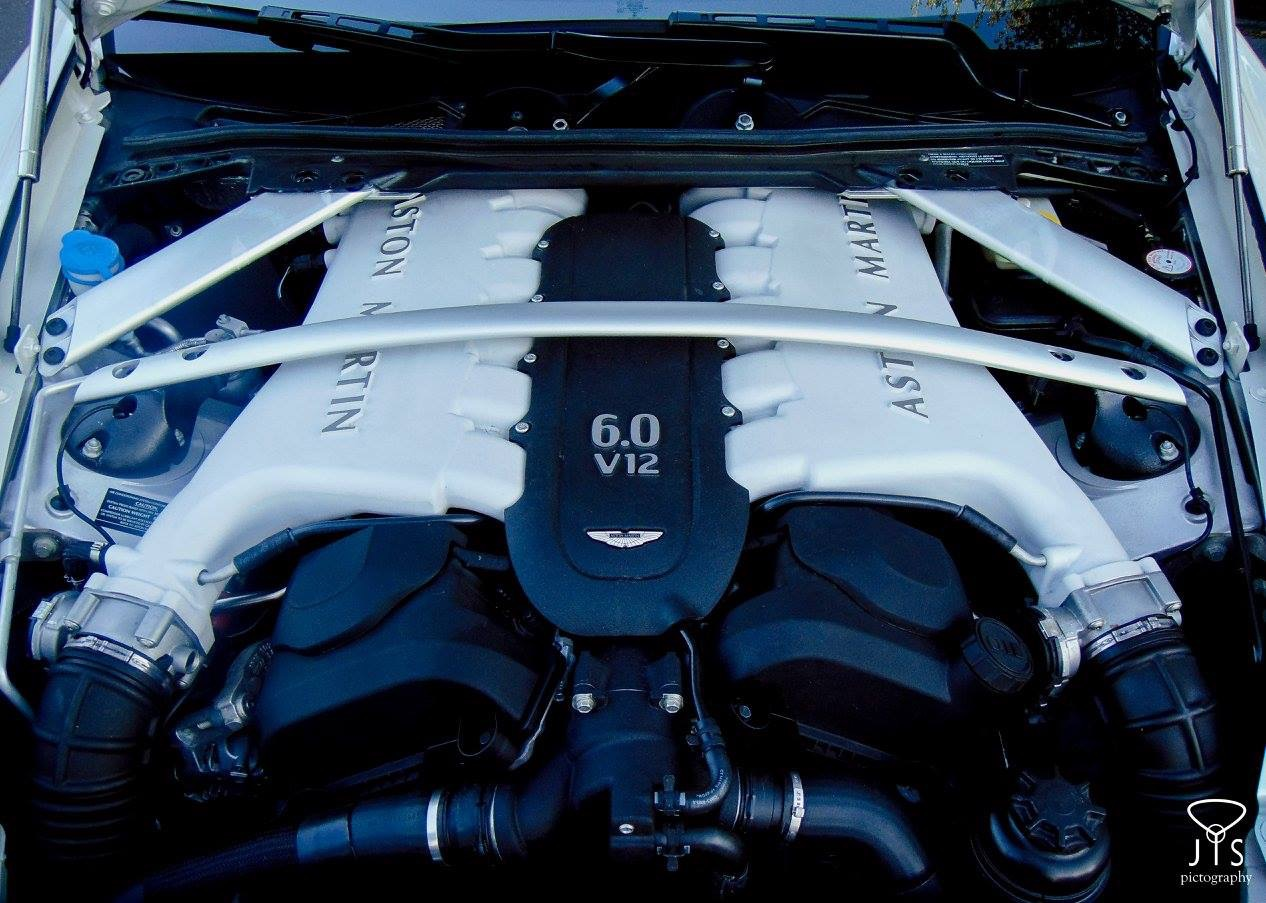
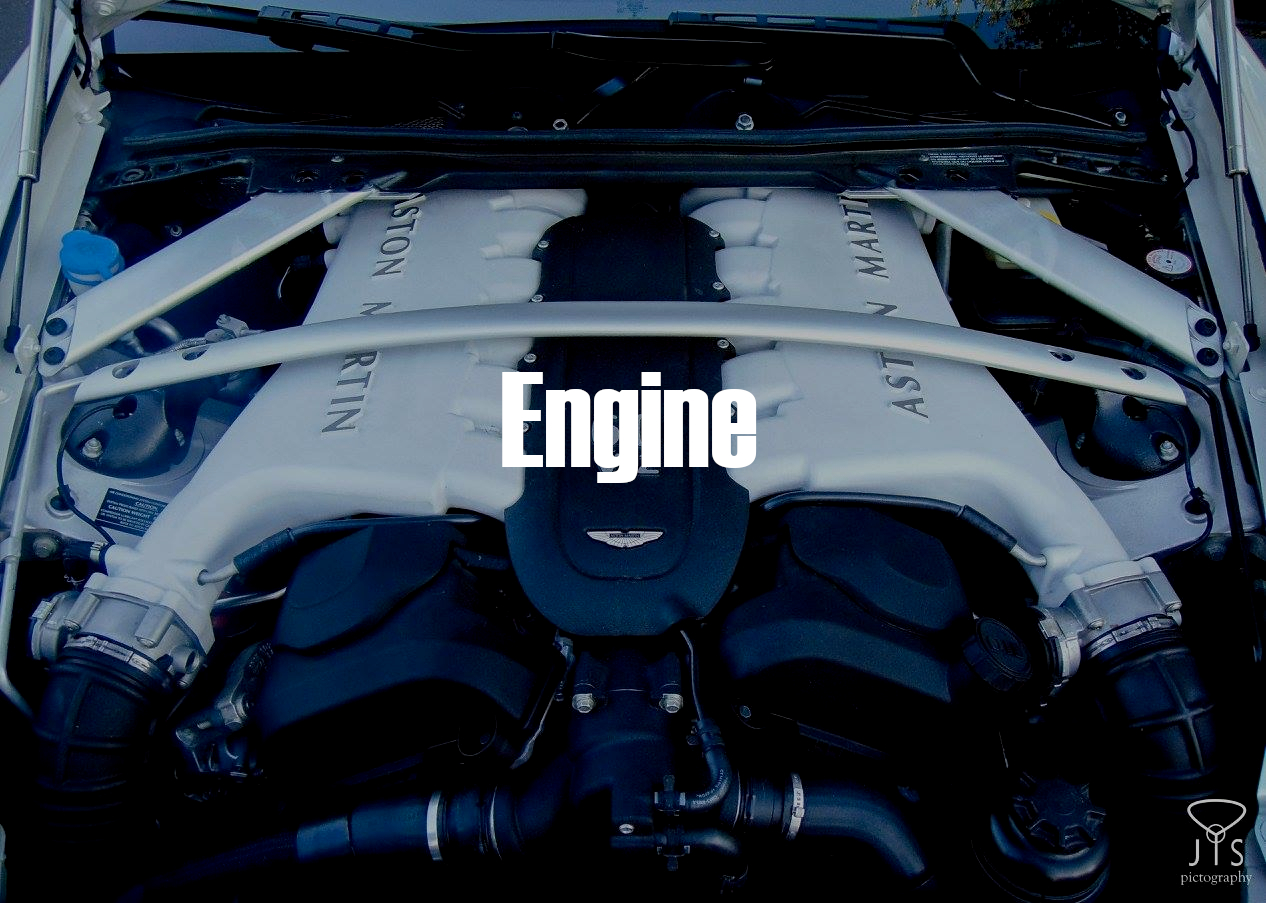
update

diff --git a/local.css b/local.css
@@ -139,7 +139,15 @@ html {
           margin-top: 10%;
       }
 
-
+h1 {
+  font-family: 'Permanent Marker';
+  font-weight: lighter;
+  color: black;
+  font-size: 28px;
+  position: relative;
+  margin: 0;
+  padding: 0;
+}
 
 
 
@@ -154,48 +162,15 @@ html {
         filter: brightness(25%);
     }
 
-    div.shell > div.tile > p#engine {
-        position: absolute;
-        top: 30%;
-        left: 36%;
-        font-family: 'Permanent Marker';
-        font-weight: lighter;
-        font-size: 40px;
-        color: white;
-        padding: 0;
-        margin: 0;
-    }
 
     div.shell > .tile > img:hover {
-        filter: brightness(75%);
+        filter: brightness(100%);
     }
 /*---------TRANSMISSION----*/
 
-div.shell > div.tile > p#transmission {
-    position: absolute;
-    top: 90%;
-    left: 25%;
-    font-family: 'Permanent Marker';
-    font-weight: lighter;
-    font-size: 40px;
-    color: white;
-    padding: 0;
-    margin: 0;
-}
 
 /*-------Exhaust------*/
 
-div.shell > div.tile > p#exhaust {
-    position: absolute;
-    top: 155%;
-    left: 35%;
-    font-family: 'Permanent Marker';
-    font-weight: lighter;
-    font-size: 40px;
-    color: white;
-    padding: 0;
-    margin: 0;
-}
 
 
 

diff --git a/local.html b/local.html
@@ -41,6 +41,8 @@
               </a>
               <img src="SACH_LOGO.png" alt="SACH_LOGO" id="skyline">
         </div>
+
+        <h1>Local Mechanics</h1>
 </header>
         
 <!--BEGIN MENU TITLES FOR LOCAL MECHANICS-->
@@ -48,21 +50,12 @@
     <div class="shell">
         <div class="tile">
             <img src="gallery/IMG_0898.JPG">
-            <p id="engine">
-                Engine
-            </p>
         </div>
         <div class="tile">
             <img src="gallery/transmission.jpg">
-            <p id="transmission">
-                Transmission
-            </p>
         </div>
         <div class="tile">
             <img src="gallery/IMG_0894.JPG">
-            <p id="exhaust">
-                Exhaust
-            </p>
         </div>
     </div>
 
